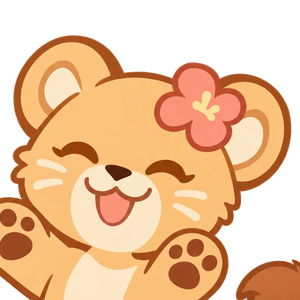
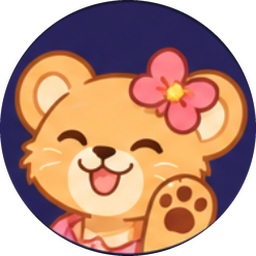
feat(avatares): nuevos avatares de león por edad y género
Leoncito y leoncita para menores de 18, león y leona para adultos, león y leona abuela desde los 60, y el león de melena cuando no hay edad registrada (la leona usa la adulta). La leona adulta ya tiene su propio dibujo.

diff --git a/mobile/src/components/LionAvatar.tsx b/mobile/src/components/LionAvatar.tsx
@@ -2,18 +2,20 @@ import { useEffect, useState } from 'react';
 import { AccessibilityInfo, Animated, Easing, Image, type ImageSourcePropType } from 'react-native';
 import type { Gender } from '../types';
 
-export type LionKind = 'adult' | 'cub' | 'elder';
+/** `default`: sin edad registrada (el león de melena grande). No es una opción del selector. */
+export type LionKind = 'adult' | 'cub' | 'elder' | 'default';
 export type LionVariant = 'lion' | 'lioness';
 export type AvatarChoice = { kind: LionKind; variant: LionVariant };
 export type AvatarId = `${LionKind}-${LionVariant}`;
 
 type Art = Record<LionVariant, ImageSourcePropType>;
 
-/** Recorte de la cabeza (assets/lions/*-face.png), para los avatares circulares. */
+/** Avatares redondos (assets/lions/*-face.png). Sin edad, la leona usa la adulta. */
 const faces: Record<LionKind, Art> = {
   cub: { lion: require('../../assets/lions/cub-lion-face.png'), lioness: require('../../assets/lions/cub-lioness-face.png') },
-  adult: { lion: require('../../assets/lions/adult-lion-face.png'), lioness: require('../../assets/lions/cub-lioness-face.png') },
+  adult: { lion: require('../../assets/lions/adult-lion-face.png'), lioness: require('../../assets/lions/adult-lioness-face.png') },
   elder: { lion: require('../../assets/lions/elder-lion-face.png'), lioness: require('../../assets/lions/elder-lioness-face.png') },
+  default: { lion: require('../../assets/lions/default-lion-face.png'), lioness: require('../../assets/lions/adult-lioness-face.png') },
 };
 
 /** Cuerpo completo, para pantallas vacías, la bienvenida, etc. */
@@ -21,17 +23,19 @@ export const lionIllustrations: Record<LionKind, Art> = {
   cub: { lion: require('../../assets/lions/cub-lion.png'), lioness: require('../../assets/lions/cub-lioness.png') },
   adult: { lion: require('../../assets/lions/adult-lion.png'), lioness: require('../../assets/lions/cub-lioness.png') },
   elder: { lion: require('../../assets/lions/elder-lion.png'), lioness: require('../../assets/lions/elder-lioness.png') },
+  default: { lion: require('../../assets/lions/adult-lion.png'), lioness: require('../../assets/lions/cub-lioness.png') },
 };
 
 const labels: Record<LionKind, Record<LionVariant, string>> = {
   cub: { lion: 'Leoncito', lioness: 'Leoncita' },
   adult: { lion: 'León', lioness: 'Leona' },
   elder: { lion: 'León abuelo', lioness: 'Leona abuela' },
+  default: { lion: 'León', lioness: 'Leona' },
 };
 
-/** Cachorro si es menor de edad, león viejo desde los 60 y adulto en los demás casos (o sin edad). */
+/** Cachorro si es menor de edad, abuelo desde los 60, adulto entre medio y el de melena si no hay edad. */
 export function lionForAge(age: number | null): LionKind {
-  if (age === null) return 'adult';
+  if (age === null) return 'default';
   if (age < 18) return 'cub';
   if (age >= 60) return 'elder';
   return 'adult';

diff --git a/web/src/utils/avatars.ts b/web/src/utils/avatars.ts
@@ -3,25 +3,26 @@ import type { Gender } from '../types'
 /**
  * Catálogo de avatares de león (el mismo de mobile/src/components/LionAvatar.tsx).
  */
-export type LionKind = 'adult' | 'cub' | 'elder'
+/** `default`: sin edad registrada (el león de melena grande). No es una opción del selector. */
+export type LionKind = 'adult' | 'cub' | 'elder' | 'default'
 export type LionVariant = 'lion' | 'lioness'
 export type AvatarChoice = { kind: LionKind; variant: LionVariant }
 export type AvatarId = `${LionKind}-${LionVariant}`
 
-/** Recorte de la cabeza en public/lions (copia de mobile/assets/lions/*-face.png). */
-/** La leona adulta usa la imagen de la leoncita. */
+/** Avatar redondo en public/lions (copia de mobile/assets/lions/*-face.png). Sin edad, la leona usa la adulta. */
 export const avatarSrc = ({ kind, variant }: AvatarChoice) =>
-  kind === 'adult' && variant === 'lioness' ? '/lions/cub-lioness-face.png' : `/lions/${kind}-${variant}-face.png`
+  kind === 'default' && variant === 'lioness' ? '/lions/adult-lioness-face.png' : `/lions/${kind}-${variant}-face.png`
 
 const labels: Record<LionKind, Record<LionVariant, string>> = {
   cub: { lion: 'Leoncito', lioness: 'Leoncita' },
   adult: { lion: 'León', lioness: 'Leona' },
   elder: { lion: 'León abuelo', lioness: 'Leona abuela' },
+  default: { lion: 'León', lioness: 'Leona' },
 }
 
-/** Cachorro si es menor de edad, león viejo desde los 60 y adulto en los demás casos (o sin edad). */
+/** Cachorro si es menor de edad, abuelo desde los 60, adulto entre medio y el de melena si no hay edad. */
 export function lionForAge(age: number | null): LionKind {
-  if (age === null) return 'adult'
+  if (age === null) return 'default'
   if (age < 18) return 'cub'
   if (age >= 60) return 'elder'
   return 'adult'

diff --git a/web/tests/avatars.test.ts b/web/tests/avatars.test.ts
@@ -1,14 +1,22 @@
 import assert from 'node:assert/strict'
 import { test } from 'node:test'
-import { avatarId, avatarOptions, defaultAvatar, lionForAge, lionVariantFor, parseAvatarId } from '../src/utils/avatars'
+import { avatarId, avatarOptions, avatarSrc, defaultAvatar, lionForAge, lionVariantFor, parseAvatarId } from '../src/utils/avatars'
 
-test('lionForAge: leoncito antes de los 18, abuelo desde los 60 y adulto si no hay edad', () => {
+test('lionForAge: leoncito antes de los 18, abuelo desde los 60 y el de melena si no hay edad', () => {
   assert.equal(lionForAge(0), 'cub')
   assert.equal(lionForAge(17), 'cub')
   assert.equal(lionForAge(18), 'adult')
   assert.equal(lionForAge(59), 'adult')
   assert.equal(lionForAge(60), 'elder')
-  assert.equal(lionForAge(null), 'adult')
+  assert.equal(lionForAge(null), 'default')
+})
+
+test('avatarSrc: cada etapa tiene su dibujo; sin edad, león de melena o leona adulta', () => {
+  assert.equal(avatarSrc({ kind: 'adult', variant: 'lioness' }), '/lions/adult-lioness-face.png')
+  assert.equal(avatarSrc({ kind: 'cub', variant: 'lioness' }), '/lions/cub-lioness-face.png')
+  assert.equal(avatarSrc({ kind: 'default', variant: 'lion' }), '/lions/default-lion-face.png')
+  assert.equal(avatarSrc({ kind: 'default', variant: 'lioness' }), '/lions/adult-lioness-face.png')
+  assert.ok(avatarOptions.every((o) => o.kind !== 'default'), 'el de melena no es una opción del selector')
 })
 
 test('defaultAvatar elige por edad y alterna león y leona por id', () => {
